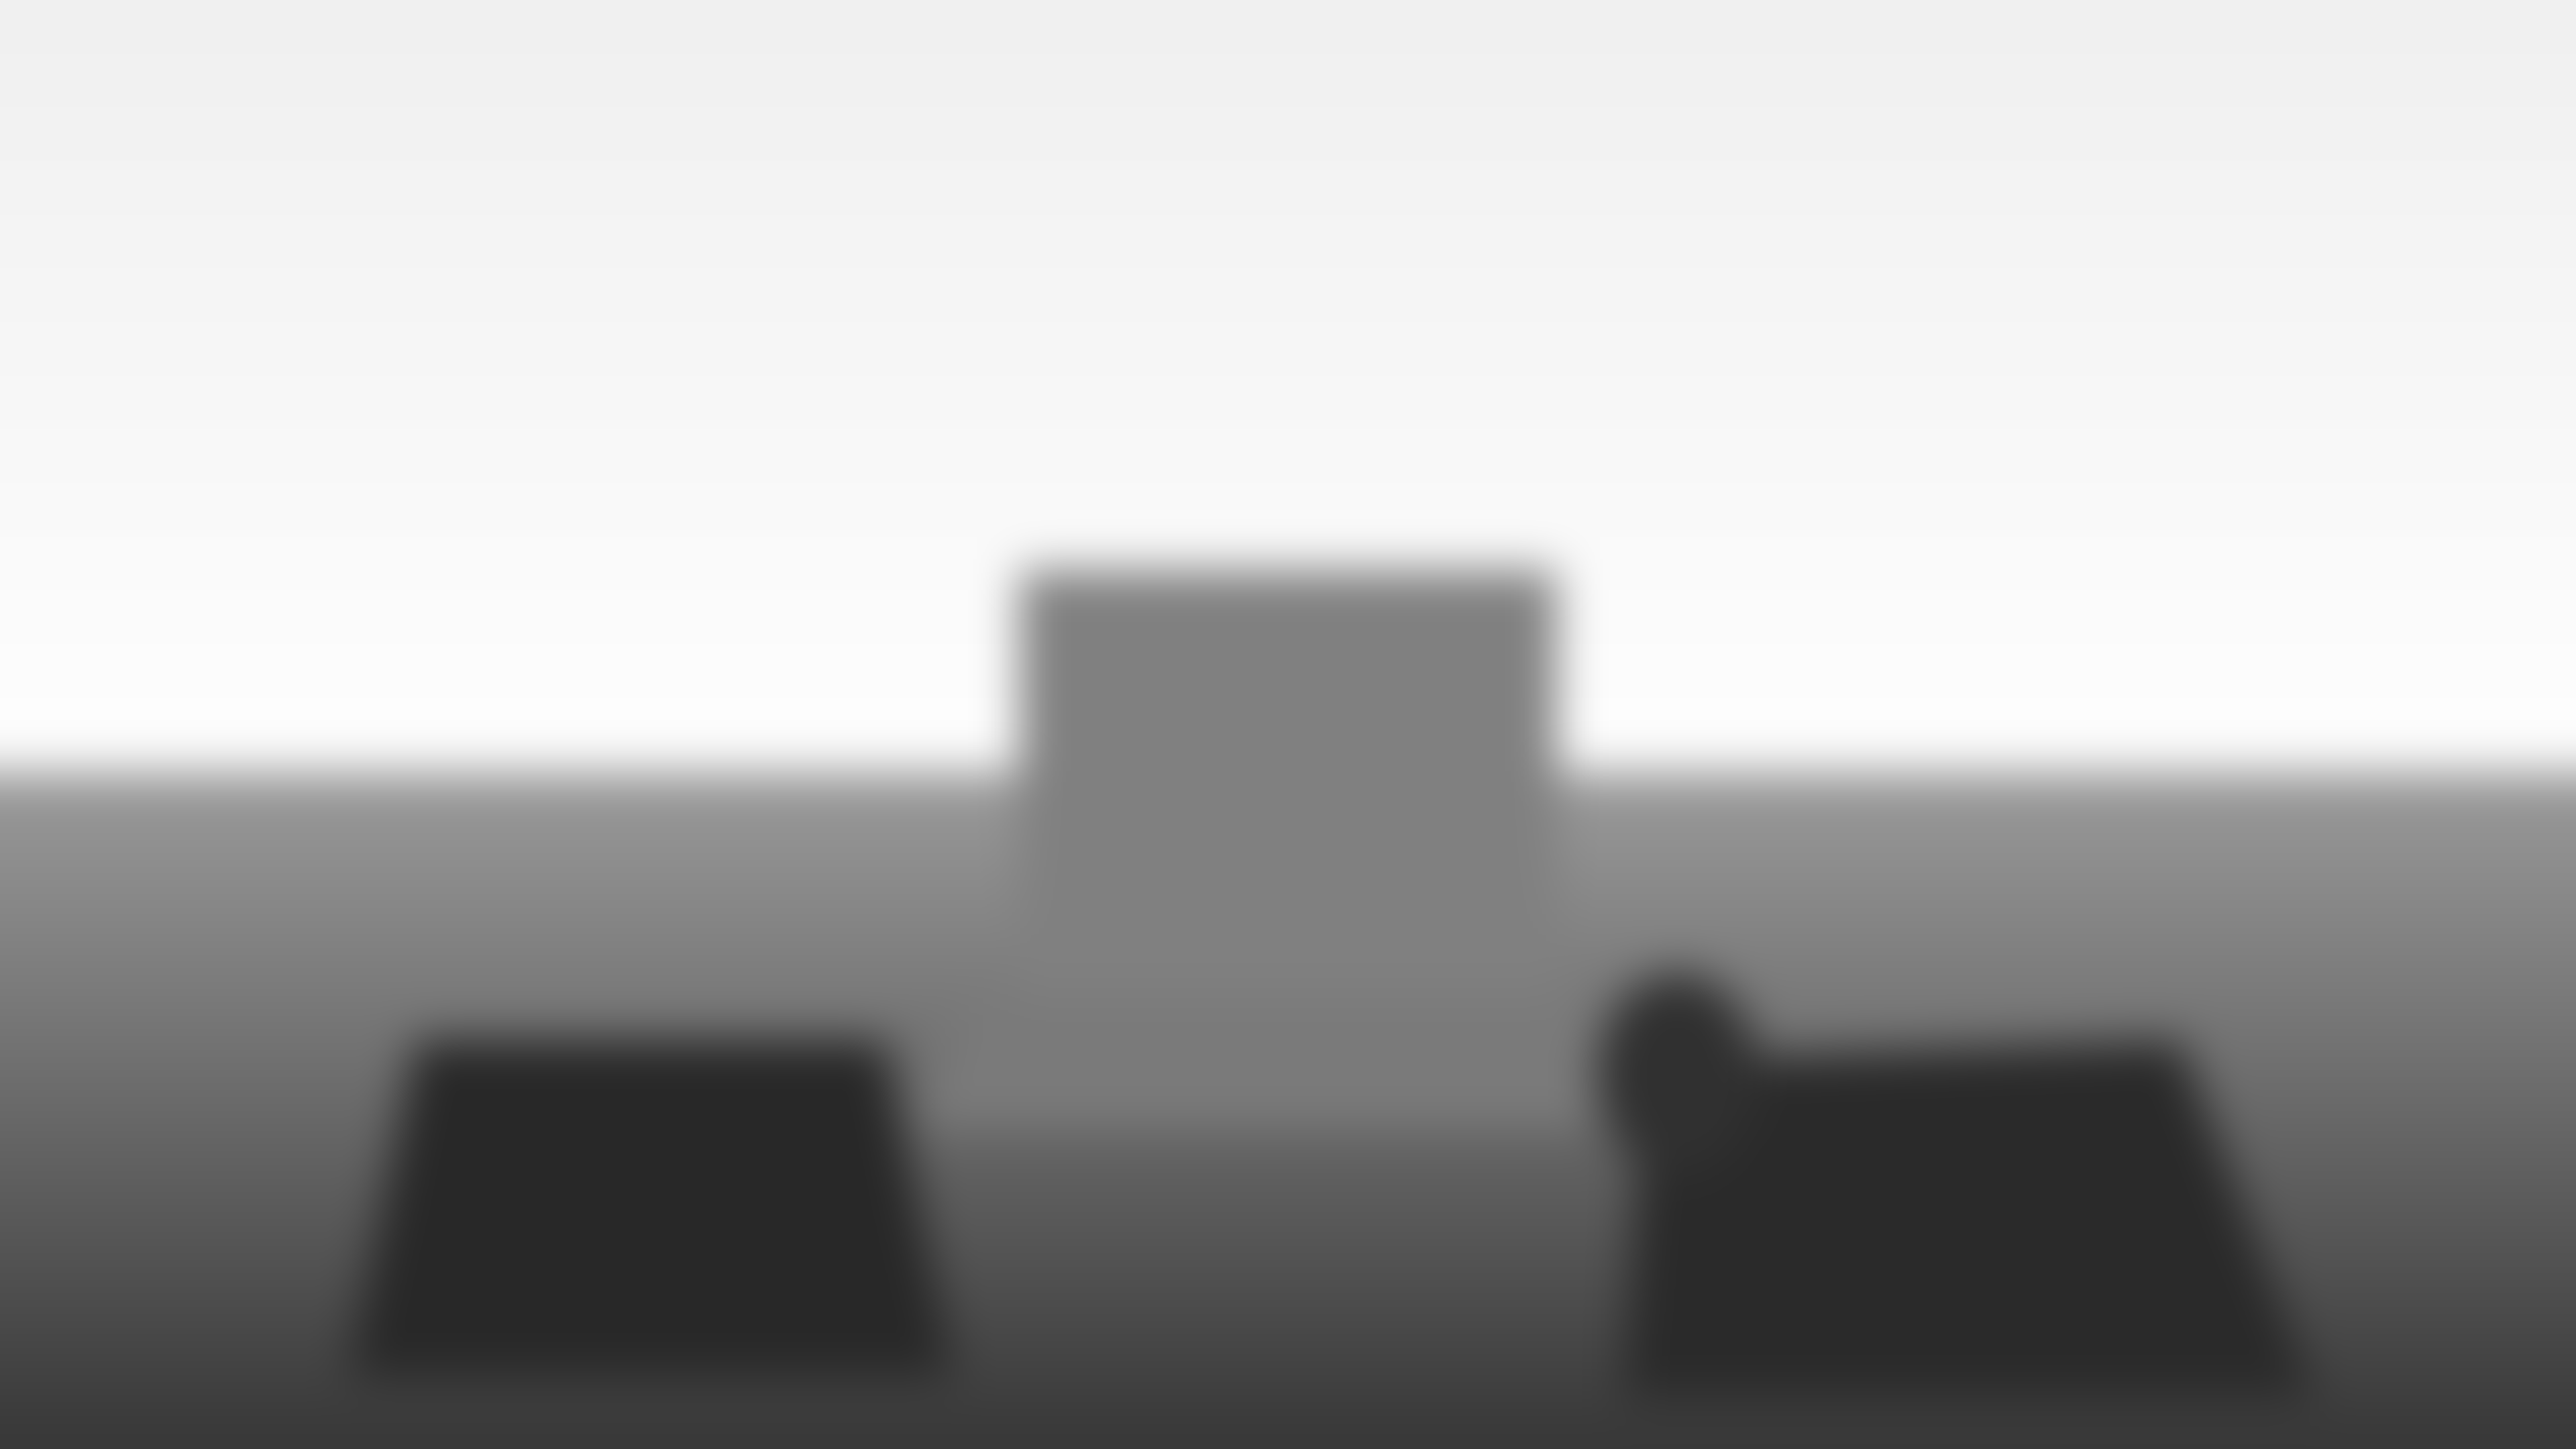
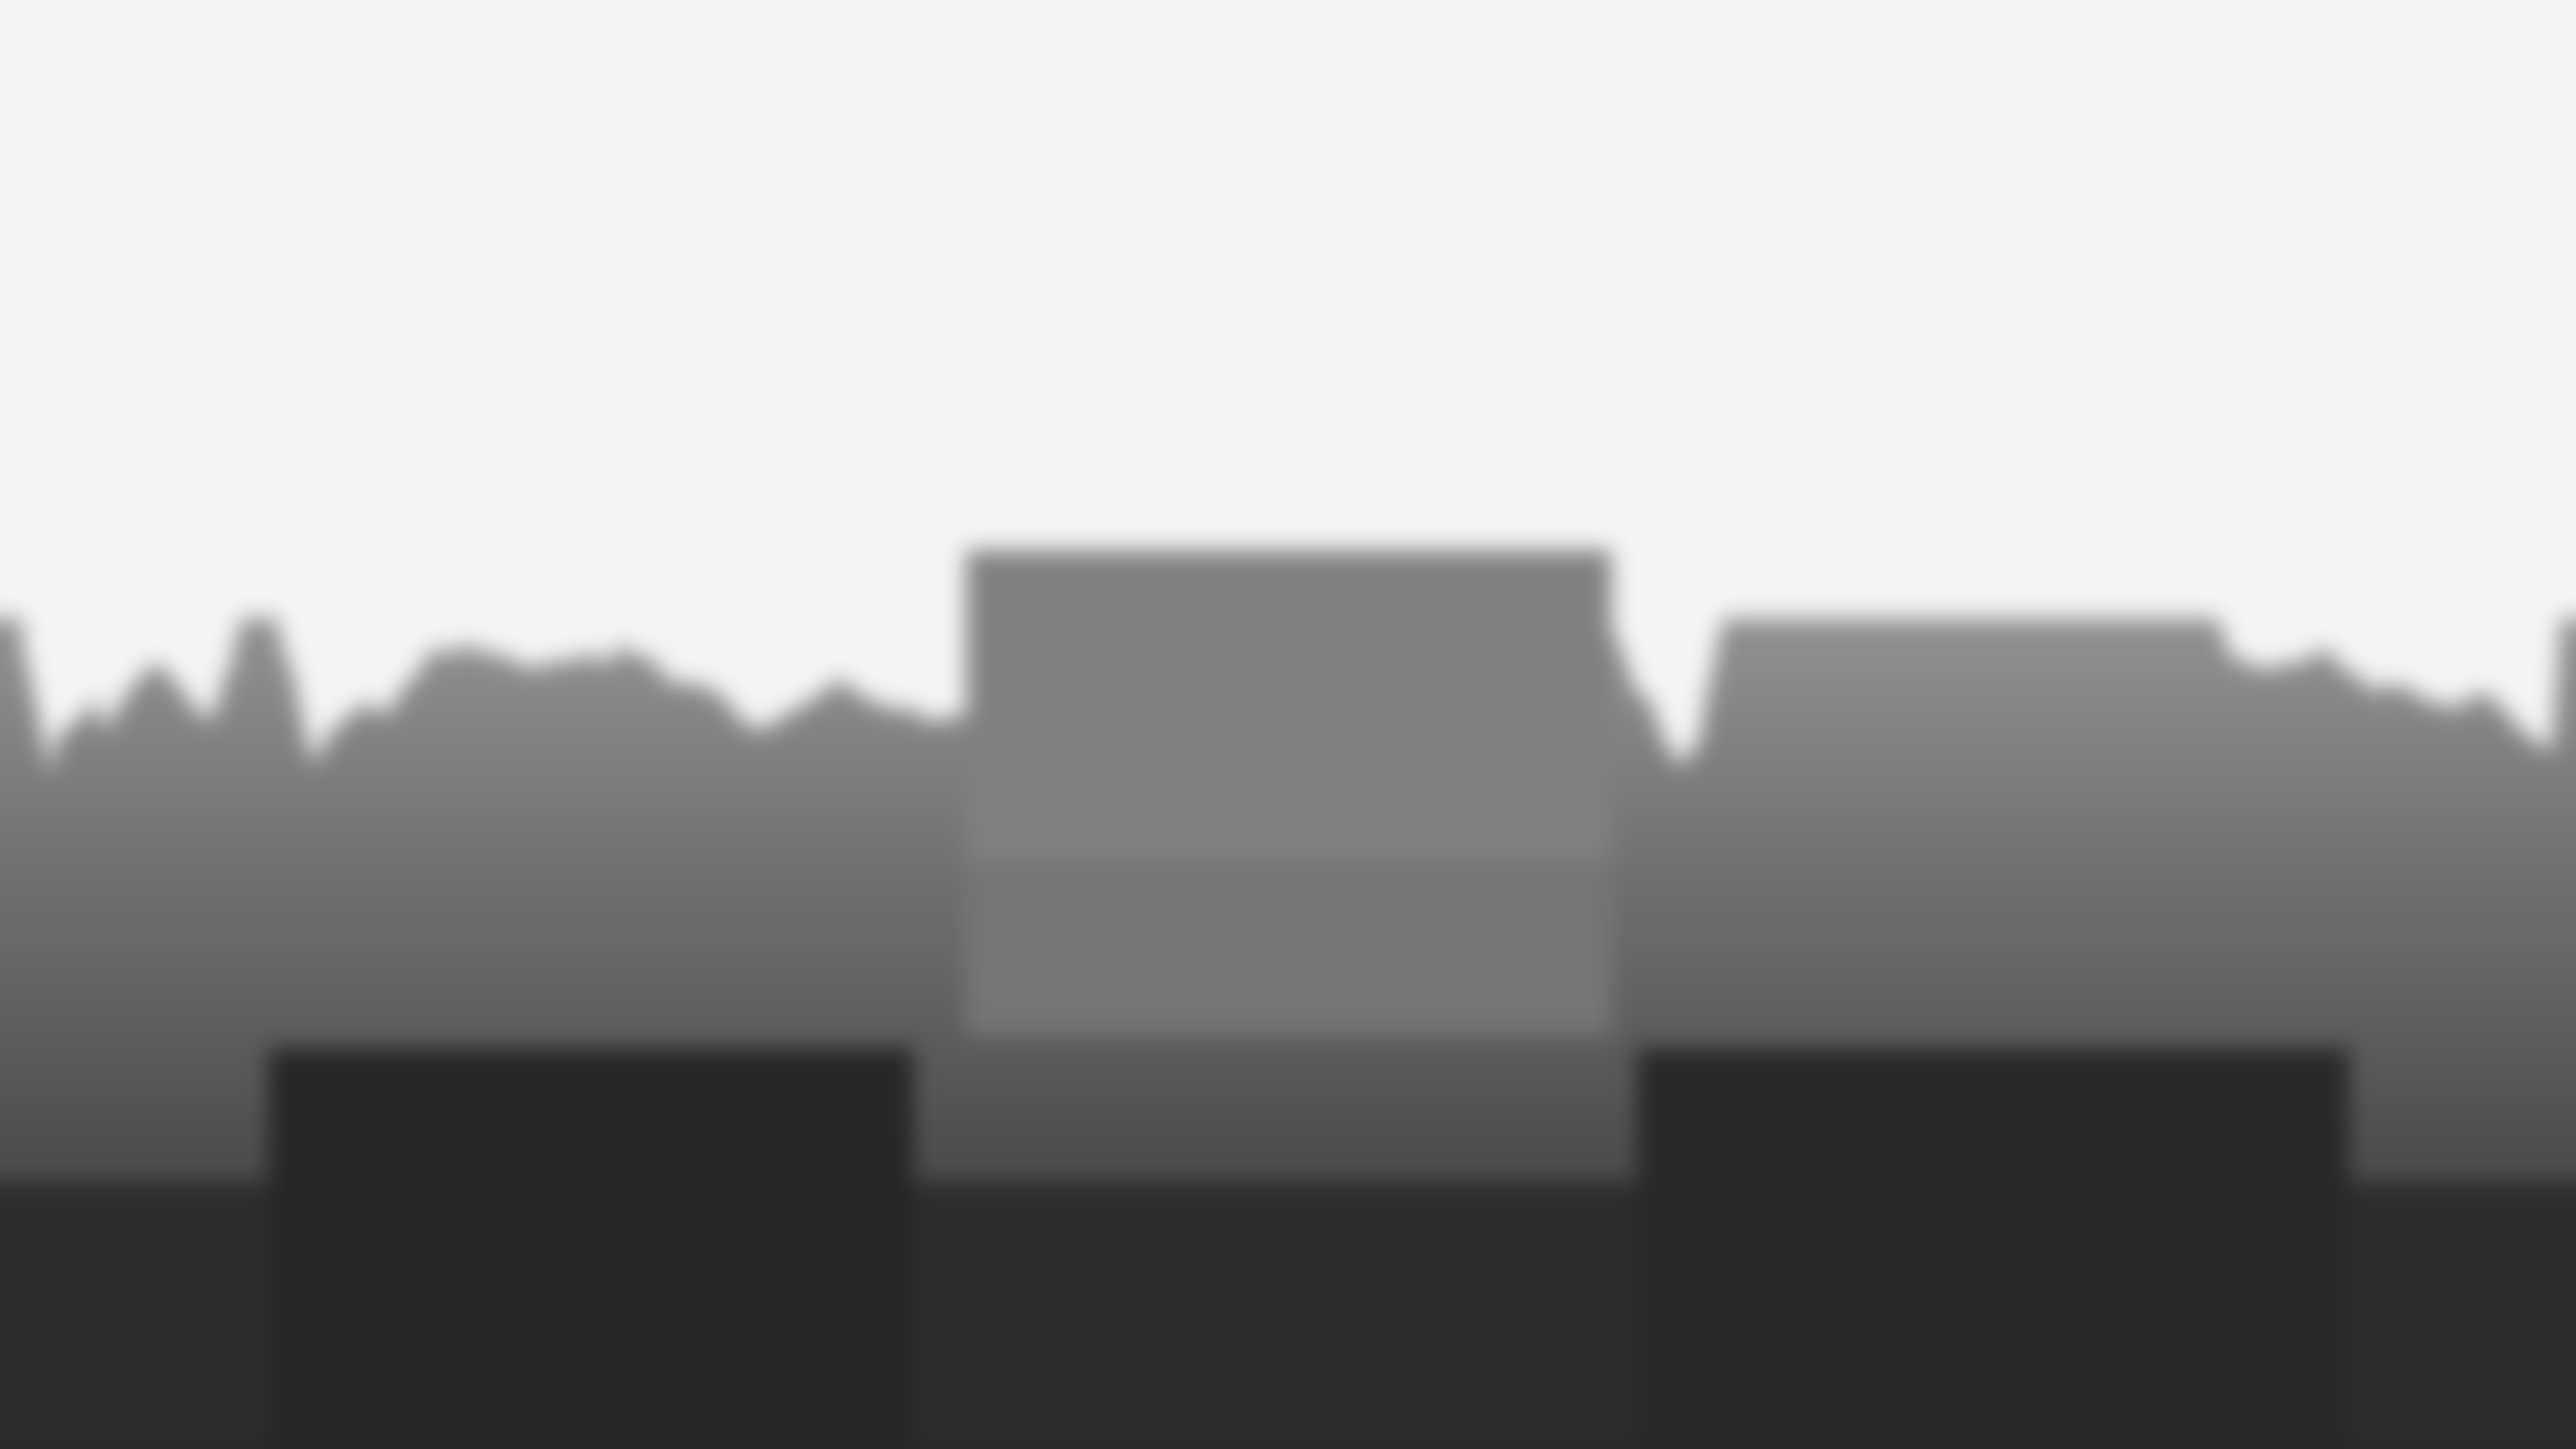
fix(depth): calibrate precision photometric depth map aligning window sill, laptop and near objects

Changed region(s): [[0.0, 0.3722, 1.0, 0.9616], [0.3438, 0.6824, 0.6875, 0.9616], [0.0, 0.7134, 0.1875, 0.9616]]

diff --git a/src/main.js b/src/main.js
@@ -122,8 +122,8 @@ class App {
         this.preloader.updateStatus('Cargando escena 4K Ultra HD...');
       }
 
-      const sceneUrl = getAssetUrl('scenes/skyline-workstation-4k.jpg?v=20261127-4k');
-      const depthUrl = getAssetUrl('scenes/skyline-workstation-depth.png?v=20261127-4k');
+      const sceneUrl = getAssetUrl('scenes/skyline-workstation-4k.jpg?v=depth-v2');
+      const depthUrl = getAssetUrl('scenes/skyline-workstation-depth.png?v=depth-v2');
 
       if (this.renderer) {
         await this.renderer.loadTexture(sceneUrl, false);
